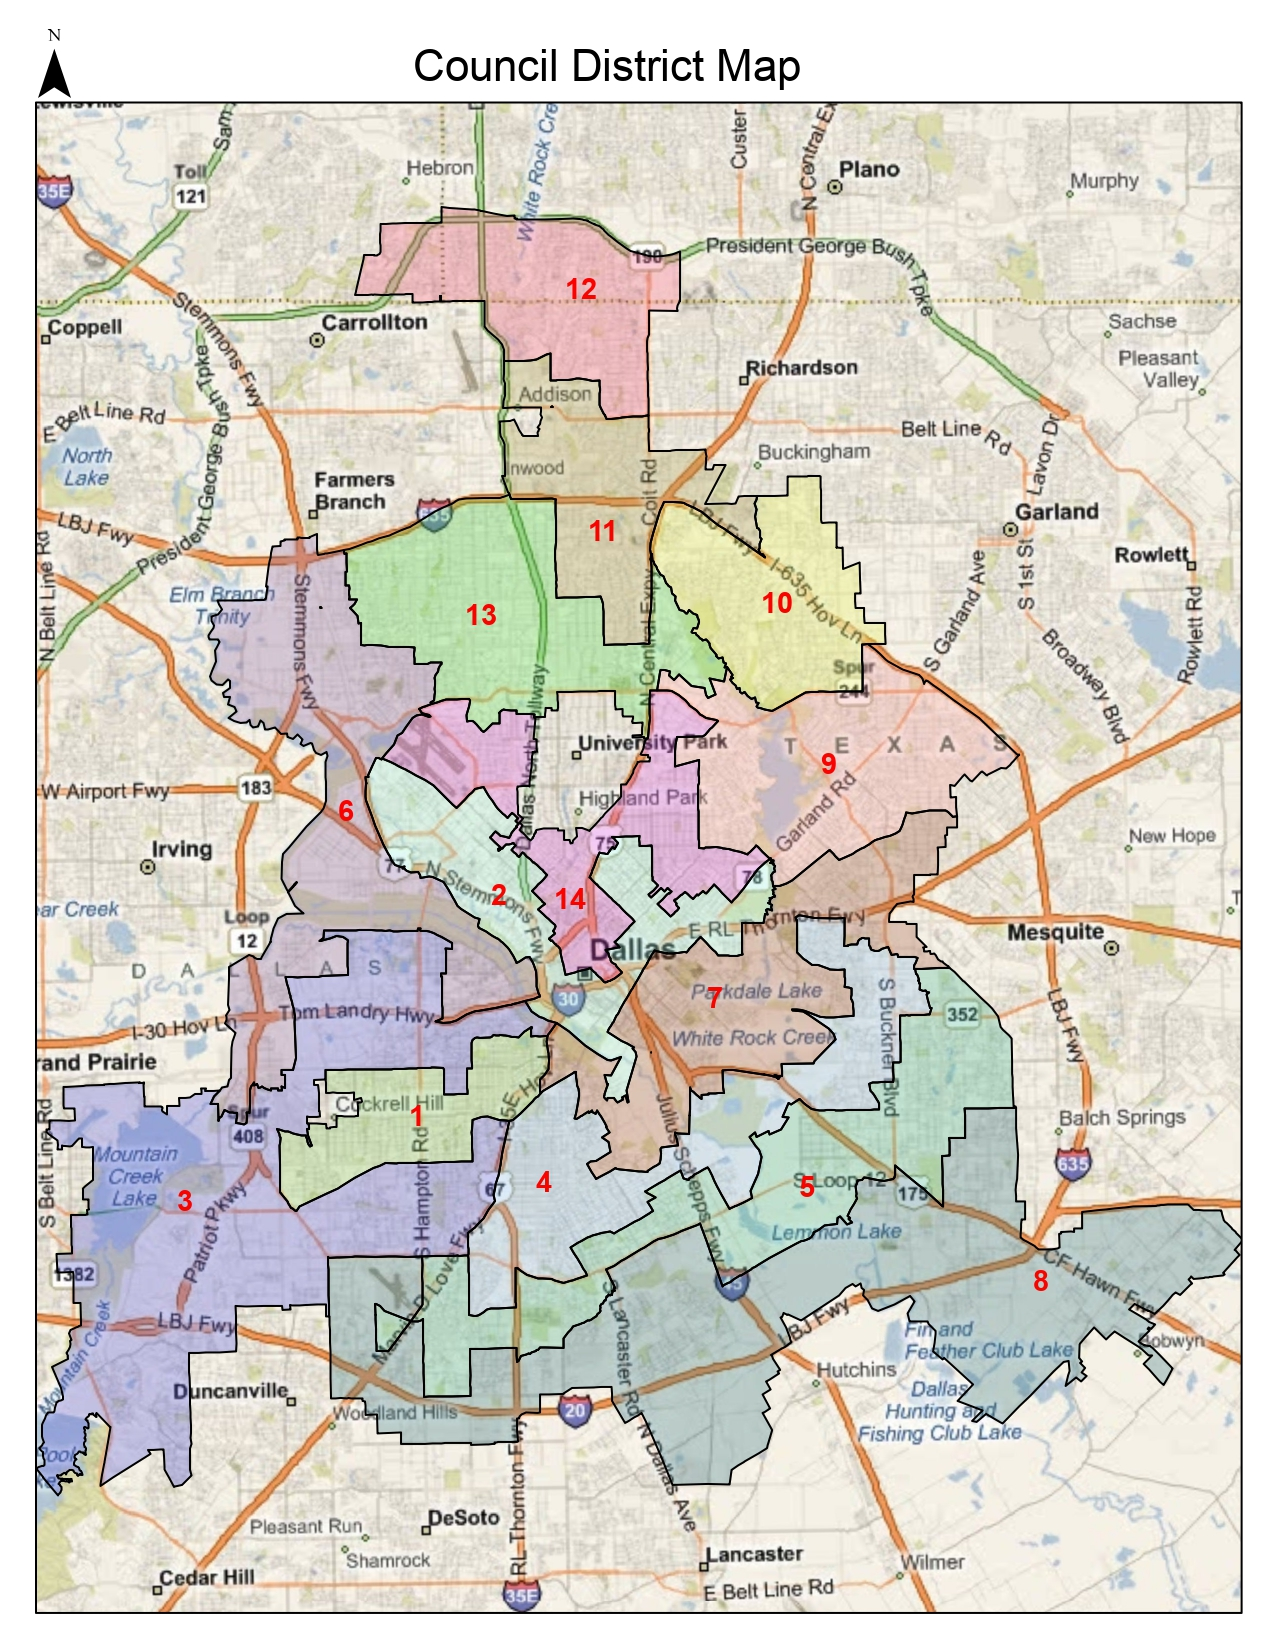
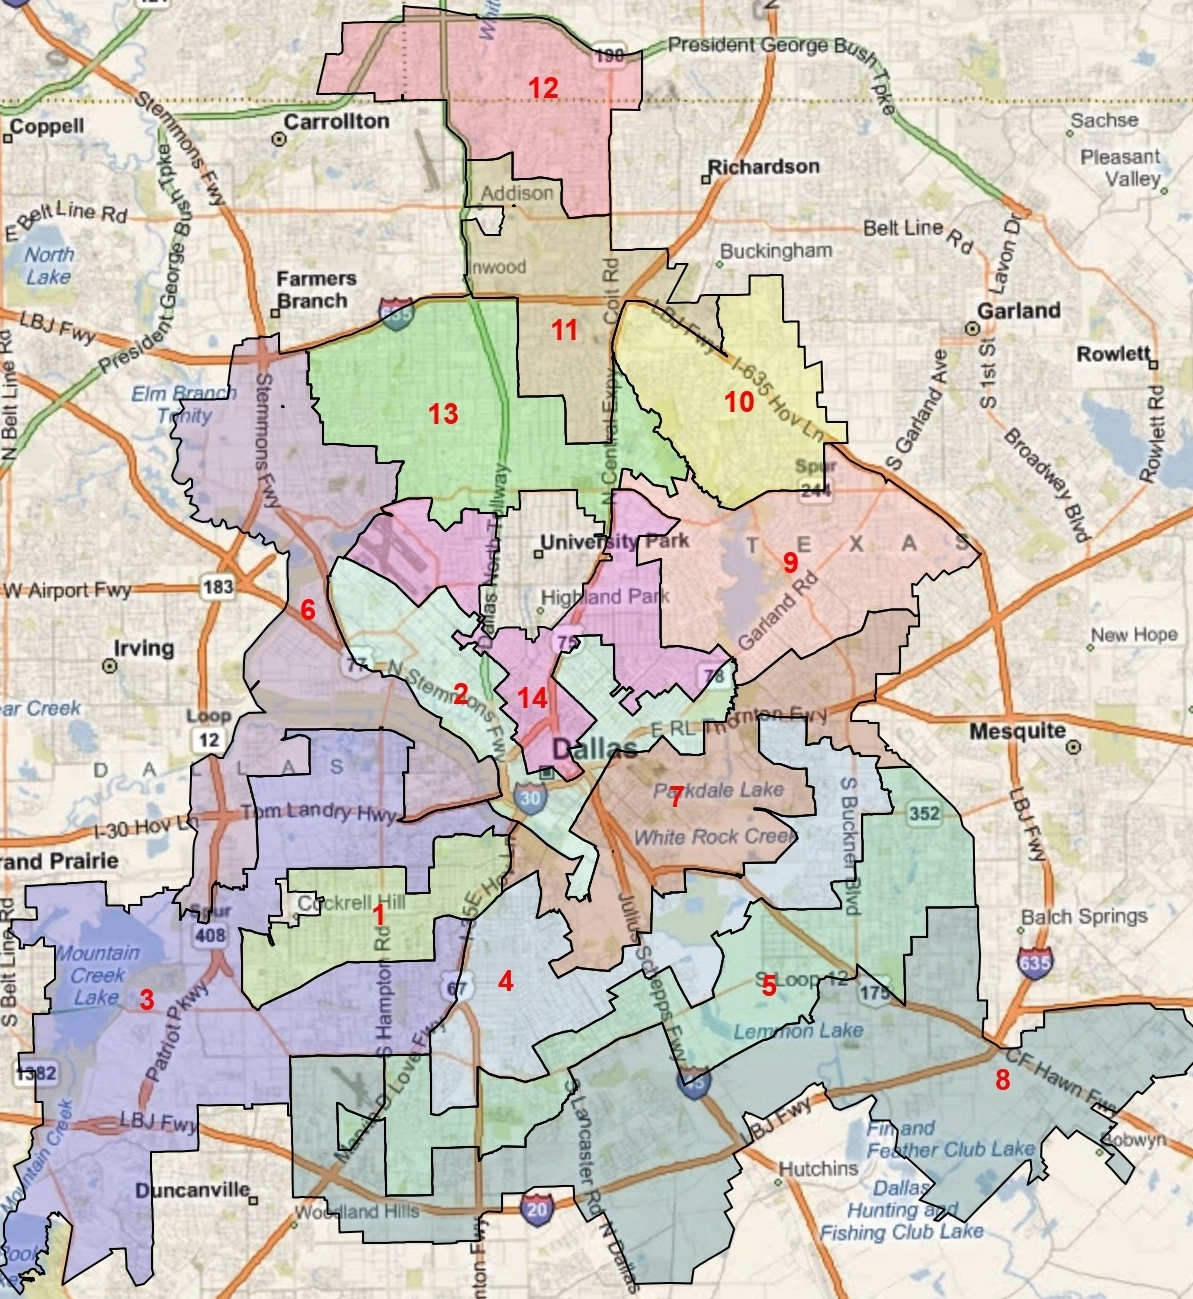
added minimap to the side window

diff --git a/styles.css b/styles.css
@@ -4,7 +4,7 @@ body {
 }
 h2,h3 {
     font-size: 18px;
-    width: 150px;
+    width: 450px;
     overflow-wrap: break-word;
     color: #2e2f8d;
     margin-left: 30px;
@@ -19,14 +19,12 @@ h3 {
 }
 fieldset {
     position: relative;
-    width: 100px;
+    width: 450px;
     margin-left: 10px;
 }
 em, p {
-    height: 50px;
-    width: 150px;
+    width: 450px;
     overflow-wrap: break-word;
-    margin-left: 20px;
     font-size: 14px;
 }
 .map-overlay {
@@ -43,37 +41,40 @@ em, p {
     width: 100%;
 }
 legend{
-    color: #eb7626;
+    color: #2e2f8d;
     font-size: 14px;
 }
 select {
-    color: #2e2f8d;
+    width: 95%;
+    height: 30px;
 }
 #features {
-    height: 370px;
-    width: 210px;
+    height: 95%;
+    width: 500px;
     opacity: 1;
-    margin-left: 25px;
+    margin-left: 10px;
     border-color: #2e2f8d;
     border-radius: 4px;
     text-align: center;
+    margin-top: 10px;
+}
+#districtmap {
+    width: 500px;
+    margin-left: 5px;
 }
 footer {
   position: absolute;
   bottom: 0;
-  width: 100%;
   margin-bottom: 25px;
   height: 2.5rem;
+  margin-right: 20px;
 }
 #source {
-    width: 200px;
     font-size: 10px;
-    margin-left: 10px;
-    margin-bottom: 25px;
-    text-align: left;
+    margin-left: 5%;
+    margin-bottom: 5px;
 }
 *{
-    margin-top: 10px;
     word-wrap: break-word;
     font-family: 'Amazon Ember', sans-serif;
     text-align: center;

diff --git a/interactive.js b/interactive.js
@@ -19,6 +19,7 @@ MAX_ZIPCODE_CONTRIBUTION = 85000
     candidates who do not have campFin data render an info box instead of campFin data
 */
 const district_ballot = new Map([
+ ["Mayor", ["EricJohnson"]],
  ["District 1" , ["ChadWest", "AlbertMata", "FelixGriggs"]],
  ["District 2" , ["JesusMoreno", "SukhbirKaur"]],
  ["District 3" , ["JohnSims", "JoeTave", "ZarinGracey", "AugustDoyle", "DeniseBenavides"]],
@@ -256,8 +257,8 @@ const map = new mapboxgl.Map({
     style: 'mapbox://styles/imercado/clex4ooxe001201o2205su3eg/draft',
     pitch: 20,
     bearing: 0,
-    center: [-97.010, 32.800],
-    zoom: 9.7
+    center: [-97.197796, 32.767012],
+    zoom: 8.5
 });
 
 // wait for map to load before adjusting it

diff --git a/index.html b/index.html
@@ -20,14 +20,13 @@
         <legend>Select a Candidate</legend>
       </fieldset>
       <div id="pd"><p>Hover over a zipcode</p></div>
+      <img src="CouncilDistrictMap.jpg" id="districtmap">
     </div>
-
     <script src="interactive.js"></script>
   </body>
   <footer>
-    <img src="CouncilDistrictMap.jpg">
-    <p id="source">Authors: R. Wilson, H. Fitch, and I. Mercado<br>
-    <a href="https://campfin.dallascityhall.com/">Source: Dallas CampFin</a></p>
+      <p id="source">Authors: R. Wilson, H. Fitch, and I. Mercado<br>
+      <a href="https://campfin.dallascityhall.com/">Source: Dallas CampFin</a></p>
   </footer>
 </html>
 
